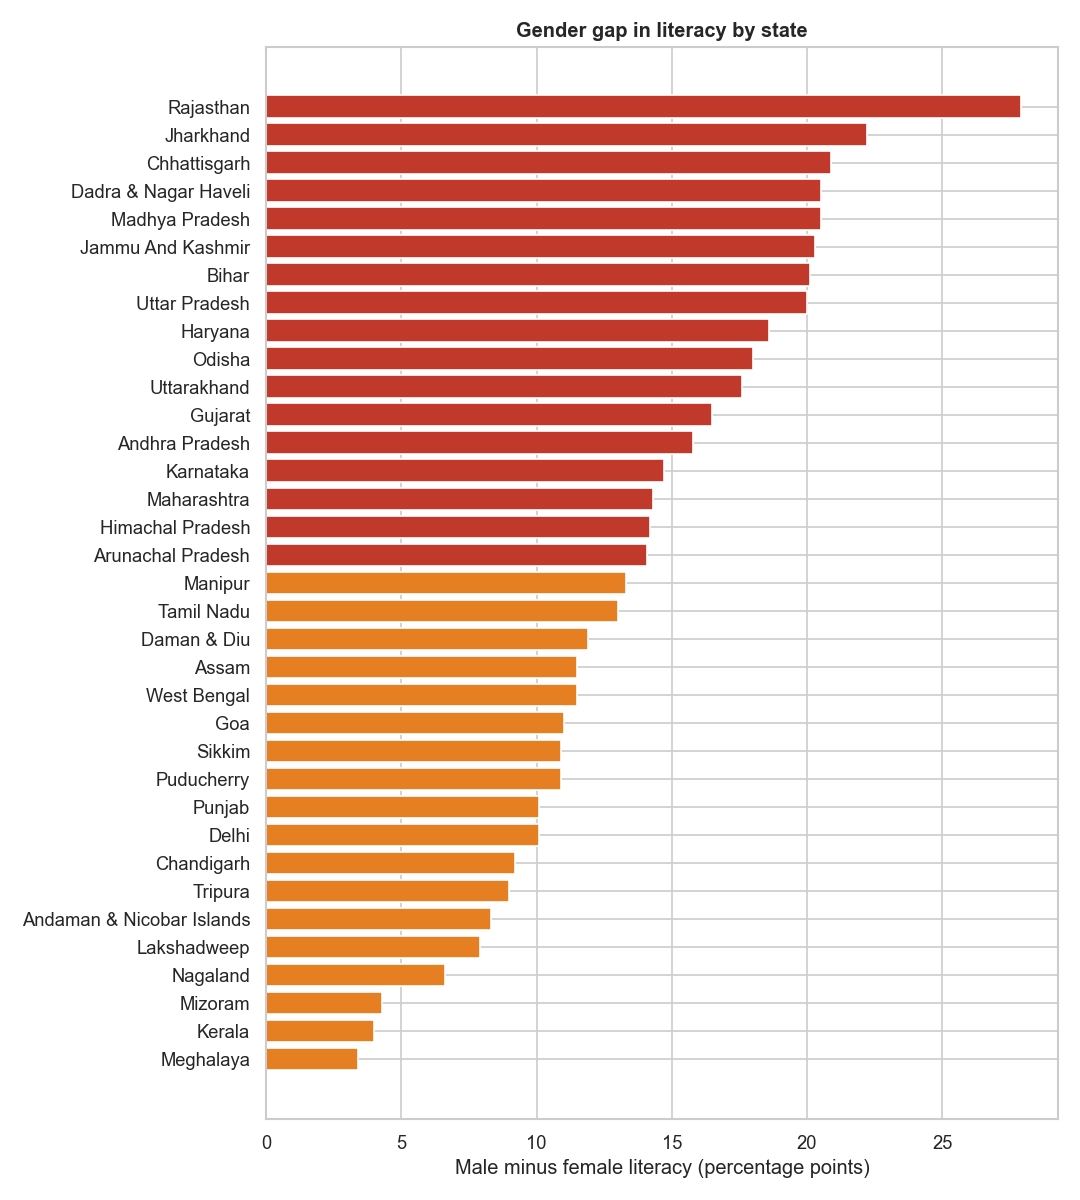
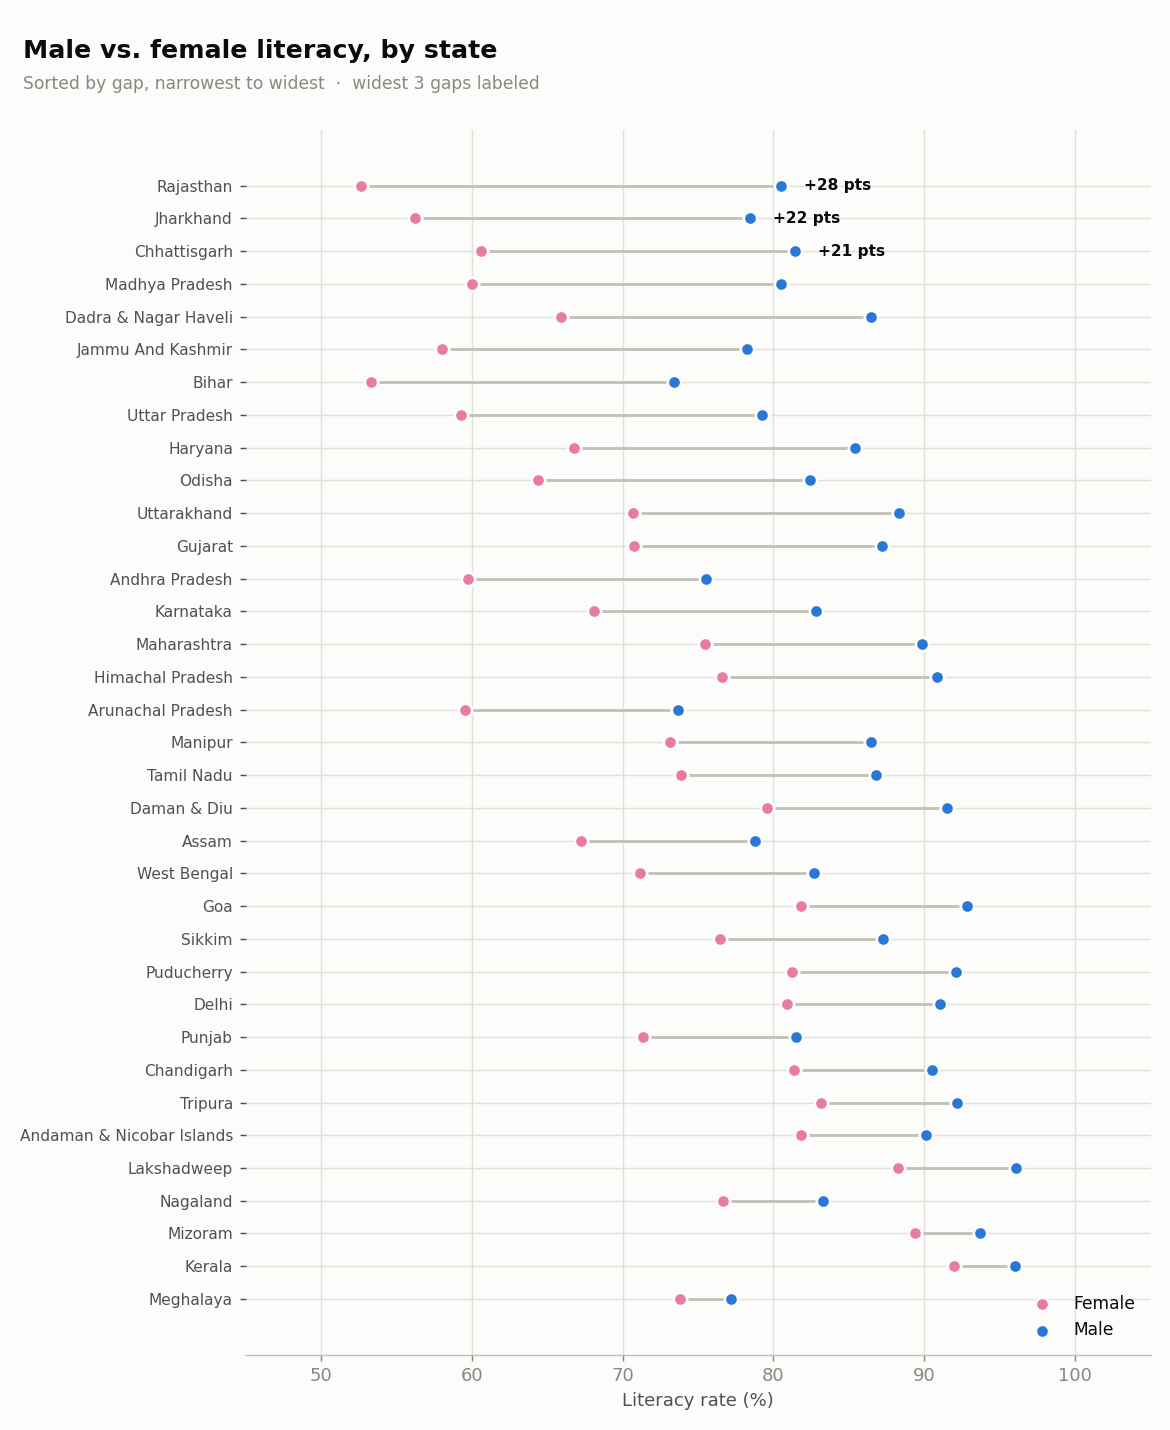
Redesign charts: dumbbell + emphasis instead of default bar/scatter
Replace the plain gender-gap bar with a dumbbell chart (male vs female
literacy per state, connected) -- the correct form for a before/after
comparison. Literacy ranking now uses emphasis (highlight top/bottom 3,
gray the rest) instead of a rainbow palette. Both scatter charts now
label only the outliers instead of all 35 states.

diff --git a/src/analysis.py b/src/analysis.py
@@ -14,8 +14,8 @@ Run:
 """
 
 from pathlib import Path
+import numpy as np
 import matplotlib.pyplot as plt
-import seaborn as sns
 
 from data import load_states
 
@@ -23,68 +23,166 @@ ROOT = Path(__file__).resolve().parents[1]
 OUT = ROOT / "outputs"
 OUT.mkdir(exist_ok=True)
 
-sns.set_theme(style="whitegrid", palette="deep")
-plt.rcParams["figure.dpi"] = 120
+# ---- shared style --------------------------------------------------------
+# A validated categorical palette (CVD-safe adjacent pairs) rather than a
+# default seaborn cycle. See docs/METHODOLOGY.md for why these two charts
+# are dumbbell/emphasis forms instead of plain bars.
+INK = "#0b0b0b"
+INK_SECONDARY = "#52514e"
+MUTED = "#898781"
+GRID = "#e1e0d9"
+AXIS = "#c3c2b7"
+SURFACE = "#fcfcfb"
+BLUE = "#2a78d6"     # series slot 1 -- primary accent
+RED = "#e34948"      # series slot 8 -- "needs attention" accent
+MAGENTA = "#e87ba4"  # series slot 5 -- second dumbbell series
+
+plt.rcParams.update({
+    "figure.facecolor": SURFACE,
+    "axes.facecolor": SURFACE,
+    "axes.edgecolor": AXIS,
+    "axes.labelcolor": INK_SECONDARY,
+    "axes.grid": True,
+    "axes.axisbelow": True,
+    "axes.spines.top": False,
+    "axes.spines.right": False,
+    "axes.spines.left": False,
+    "grid.color": GRID,
+    "grid.linewidth": 0.8,
+    "text.color": INK,
+    "xtick.color": MUTED,
+    "ytick.color": INK_SECONDARY,
+    "font.family": "sans-serif",
+    "figure.dpi": 130,
+})
+
+
+def _finish(fig, path, title, subtitle=None):
+    # Fixed inch-based offsets from the top so title/subtitle spacing stays
+    # consistent across figures of different heights (a figure-fraction
+    # offset would overlap on shorter figures).
+    h = fig.get_size_inches()[1]
+    fig.text(0.02, 1 - 0.3 / h, title, fontsize=14, fontweight="bold", color=INK, ha="left", va="top")
+    if subtitle:
+        fig.text(0.02, 1 - 0.58 / h, subtitle, fontsize=9.5, color=MUTED, ha="left", va="top")
+    top_margin = 1 - 0.85 / h
+    fig.tight_layout(rect=[0, 0, 1, top_margin])
+    fig.savefig(path, facecolor=SURFACE)
+    plt.close(fig)
 
 
 def chart_literacy_ranking(df) -> None:
-    """Bar chart: states ranked by overall literacy."""
-    d = df.sort_values("literacy_rate", ascending=True)
-    plt.figure(figsize=(9, 10))
-    plt.barh(d["state"], d["literacy_rate"], color=sns.color_palette("crest", len(d)))
-    plt.xlabel("Overall literacy rate (%)")
-    plt.title("Literacy rate by state — 2011 Census (via UDISE 2015-16)", fontweight="bold")
-    plt.tight_layout()
-    plt.savefig(OUT / "01_literacy_ranking.png")
-    plt.close()
+    """Emphasis bar chart: states ranked by literacy, top/bottom 3 highlighted."""
+    d = df.sort_values("literacy_rate", ascending=True).reset_index(drop=True)
+    mean = d["literacy_rate"].mean()
+
+    top3 = set(d.nlargest(3, "literacy_rate")["state"])
+    bottom3 = set(d.nsmallest(3, "literacy_rate")["state"])
+    colors = [BLUE if s in top3 else RED if s in bottom3 else "#c7c6bf" for s in d["state"]]
+
+    fig, ax = plt.subplots(figsize=(9, 10.5))
+    bars = ax.barh(d["state"], d["literacy_rate"], color=colors, height=0.62, zorder=3)
+    ax.axvline(mean, color=MUTED, linewidth=1, zorder=2)
+    ax.text(mean, len(d) - 0.3, f" national avg {mean:.0f}%", fontsize=8.5,
+            color=MUTED, va="bottom")
+
+    for bar, state, val in zip(bars, d["state"], d["literacy_rate"]):
+        if state in top3 or state in bottom3:
+            ax.text(val + 0.6, bar.get_y() + bar.get_height() / 2, f"{val:.0f}%",
+                    va="center", fontsize=9, color=INK, fontweight="bold")
+
+    ax.set_xlabel("Overall literacy rate (%)")
+    ax.set_xlim(0, 105)
+    ax.tick_params(axis="y", labelsize=8.5)
+    ax.grid(axis="y", visible=False)
+    _finish(fig, OUT / "01_literacy_ranking.png",
+            "Literacy rate by state",
+            "2011 Census figures, via UDISE 2015-16  ·  highest and lowest 3 states highlighted")
 
 
 def chart_gender_gap(df) -> None:
-    """Bar chart: male-female literacy gap by state."""
-    d = df.sort_values("gender_gap", ascending=False)
-    colors = ["#c0392b" if g > d["gender_gap"].median() else "#e67e22" for g in d["gender_gap"]]
-    plt.figure(figsize=(9, 10))
-    plt.barh(d["state"][::-1], d["gender_gap"][::-1], color=colors[::-1])
-    plt.xlabel("Male minus female literacy (percentage points)")
-    plt.title("Gender gap in literacy by state", fontweight="bold")
-    plt.tight_layout()
-    plt.savefig(OUT / "02_gender_gap.png")
-    plt.close()
+    """Dumbbell chart: male vs. female literacy per state, sorted by gap."""
+    d = df.sort_values("gender_gap", ascending=True).reset_index(drop=True)
+    y = np.arange(len(d))
+
+    fig, ax = plt.subplots(figsize=(9, 11))
+    ax.hlines(y, d["female_literacy_rate"], d["male_literacy_rate"],
+              color=AXIS, linewidth=1.6, zorder=2)
+    ax.scatter(d["female_literacy_rate"], y, s=55, color=MAGENTA,
+               edgecolor=SURFACE, linewidth=1.5, zorder=3, label="Female")
+    ax.scatter(d["male_literacy_rate"], y, s=55, color=BLUE,
+               edgecolor=SURFACE, linewidth=1.5, zorder=3, label="Male")
+
+    widest = d.nlargest(3, "gender_gap")["state"]
+    for state, gap, male in zip(d["state"], d["gender_gap"], d["male_literacy_rate"]):
+        if state in set(widest):
+            yi = d.index[d["state"] == state][0]
+            ax.text(male + 1.5, yi, f"+{gap:.0f} pts", fontsize=8.5,
+                    color=INK, fontweight="bold", va="center")
+
+    ax.set_yticks(y)
+    ax.set_yticklabels(d["state"], fontsize=8.5)
+    ax.set_xlabel("Literacy rate (%)")
+    ax.set_xlim(45, 105)
+    ax.legend(loc="lower right", frameon=False, fontsize=9.5)
+    _finish(fig, OUT / "02_gender_gap.png",
+            "Male vs. female literacy, by state",
+            "Sorted by gap, narrowest to widest  ·  widest 3 gaps labeled")
 
 
 def chart_literacy_vs_gender_gap(df) -> None:
     """Scatter: does higher overall literacy track a smaller gender gap?"""
-    plt.figure(figsize=(8, 6))
-    sns.regplot(data=df, x="literacy_rate", y="gender_gap",
-                scatter_kws={"s": 60}, line_kws={"color": "#c0392b"})
-    for _, r in df.iterrows():
-        plt.annotate(r["state"], (r["literacy_rate"], r["gender_gap"]),
-                     fontsize=7, alpha=0.7)
-    plt.xlabel("Overall literacy rate (%)")
-    plt.ylabel("Gender gap (percentage points)")
-    plt.title("Higher-literacy states tend to have smaller gender gaps",
-              fontweight="bold")
-    plt.tight_layout()
-    plt.savefig(OUT / "03_literacy_vs_gender_gap.png")
-    plt.close()
+    corr = df["literacy_rate"].corr(df["gender_gap"])
+    slope, intercept = np.polyfit(df["literacy_rate"], df["gender_gap"], 1)
+    xs = np.array([df["literacy_rate"].min(), df["literacy_rate"].max()])
+
+    fig, ax = plt.subplots(figsize=(8.5, 6.5))
+    ax.scatter(df["literacy_rate"], df["gender_gap"], s=60, color=BLUE,
+               alpha=0.85, edgecolor=SURFACE, linewidth=1, zorder=3)
+    ax.plot(xs, slope * xs + intercept, color=RED, linewidth=2, zorder=2)
+
+    callouts = set(df.nlargest(2, "gender_gap")["state"]) | set(df.nsmallest(2, "literacy_rate")["state"]) \
+        | set(df.nlargest(2, "literacy_rate")["state"])
+    for _, r in df[df["state"].isin(callouts)].iterrows():
+        ax.annotate(r["state"], (r["literacy_rate"], r["gender_gap"]),
+                    fontsize=8.5, color=INK, xytext=(5, 4), textcoords="offset points")
+
+    ax.text(0.03, 0.05, f"r = {corr:.2f}", transform=ax.transAxes,
+            fontsize=11, fontweight="bold", color=RED)
+    ax.set_xlabel("Overall literacy rate (%)")
+    ax.set_ylabel("Gender gap (percentage points)")
+    _finish(fig, OUT / "03_literacy_vs_gender_gap.png",
+            "Higher-literacy states have smaller gender gaps",
+            "Each point is one state  ·  labeled: widest gaps and literacy extremes")
 
 
 def chart_ptr_vs_pass_rate(df) -> None:
     """Scatter: does a higher pupil-teacher ratio track a lower pass rate?"""
     d = df.dropna(subset=["class10_pass_rate"])
-    plt.figure(figsize=(8, 6))
-    sns.regplot(data=d, x="pupil_teacher_ratio", y="class10_pass_rate",
-                scatter_kws={"s": 60}, line_kws={"color": "#c0392b"})
-    for _, r in d.iterrows():
-        plt.annotate(r["state"], (r["pupil_teacher_ratio"], r["class10_pass_rate"]),
-                     fontsize=7, alpha=0.7)
-    plt.xlabel("Pupil-teacher ratio (secondary)")
-    plt.ylabel("Class 10 board exam pass rate (%)")
-    plt.title("Classroom crowding vs. exam pass rate — no clear relationship",
-              fontweight="bold")
-    plt.tight_layout()
-    plt.savefig(OUT / "04_ptr_vs_pass_rate.png")
-    plt.close()
+    corr = d["pupil_teacher_ratio"].corr(d["class10_pass_rate"])
+    slope, intercept = np.polyfit(d["pupil_teacher_ratio"], d["class10_pass_rate"], 1)
+    xs = np.array([d["pupil_teacher_ratio"].min(), d["pupil_teacher_ratio"].max()])
+
+    fig, ax = plt.subplots(figsize=(8.5, 6.5))
+    ax.scatter(d["pupil_teacher_ratio"], d["class10_pass_rate"], s=60, color=BLUE,
+               alpha=0.85, edgecolor=SURFACE, linewidth=1, zorder=3)
+    ax.plot(xs, slope * xs + intercept, color=MUTED, linewidth=2, zorder=2)
+
+    callouts = set(d.nlargest(2, "pupil_teacher_ratio")["state"]) \
+        | set(d.nsmallest(2, "class10_pass_rate")["state"]) \
+        | set(d.nlargest(2, "class10_pass_rate")["state"])
+    for _, r in d[d["state"].isin(callouts)].iterrows():
+        ax.annotate(r["state"], (r["pupil_teacher_ratio"], r["class10_pass_rate"]),
+                    fontsize=8.5, color=INK, xytext=(5, 4), textcoords="offset points")
+
+    ax.text(0.97, 0.93, f"r = {corr:.2f}  (no meaningful relationship)",
+            transform=ax.transAxes, fontsize=10.5, fontweight="bold", color=MUTED,
+            ha="right")
+    ax.set_xlabel("Pupil-teacher ratio (secondary)")
+    ax.set_ylabel("Class 10 board exam pass rate (%)")
+    _finish(fig, OUT / "04_ptr_vs_pass_rate.png",
+            "Classroom crowding vs. exam pass rate",
+            "Each point is one state  ·  flat trend line — reported as a genuine null result")
 
 
 def write_findings(df) -> None:
